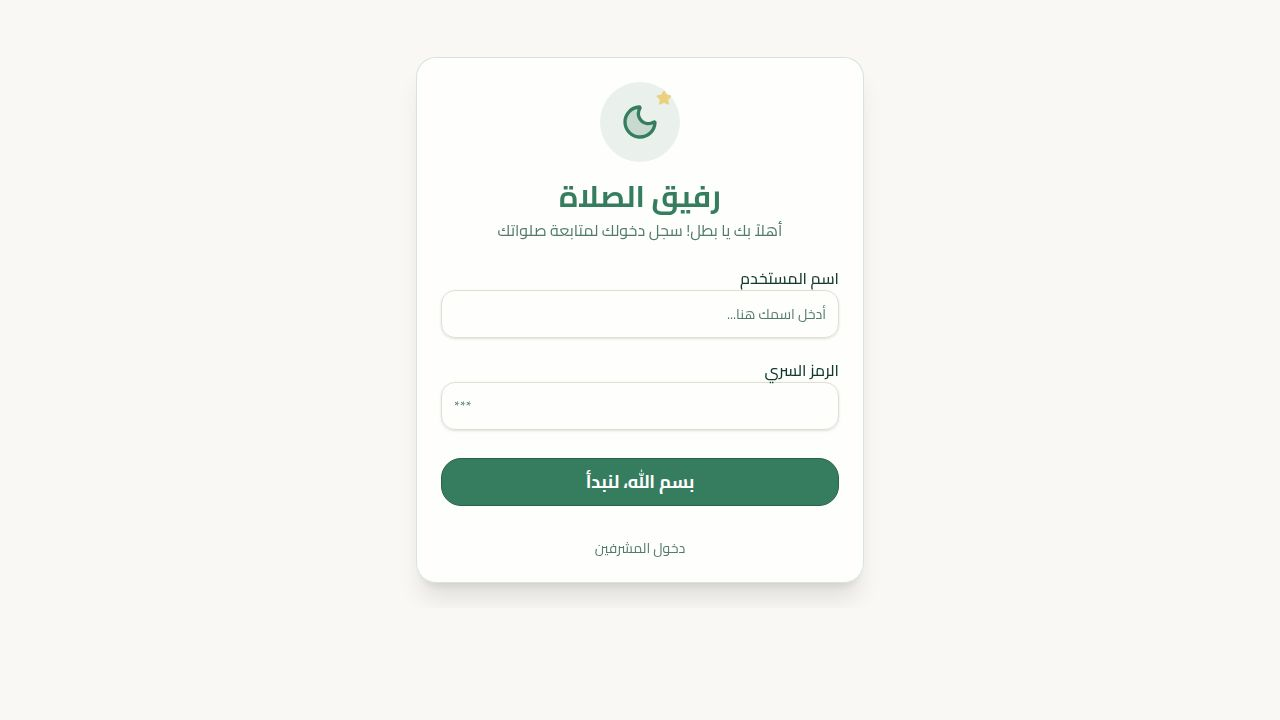
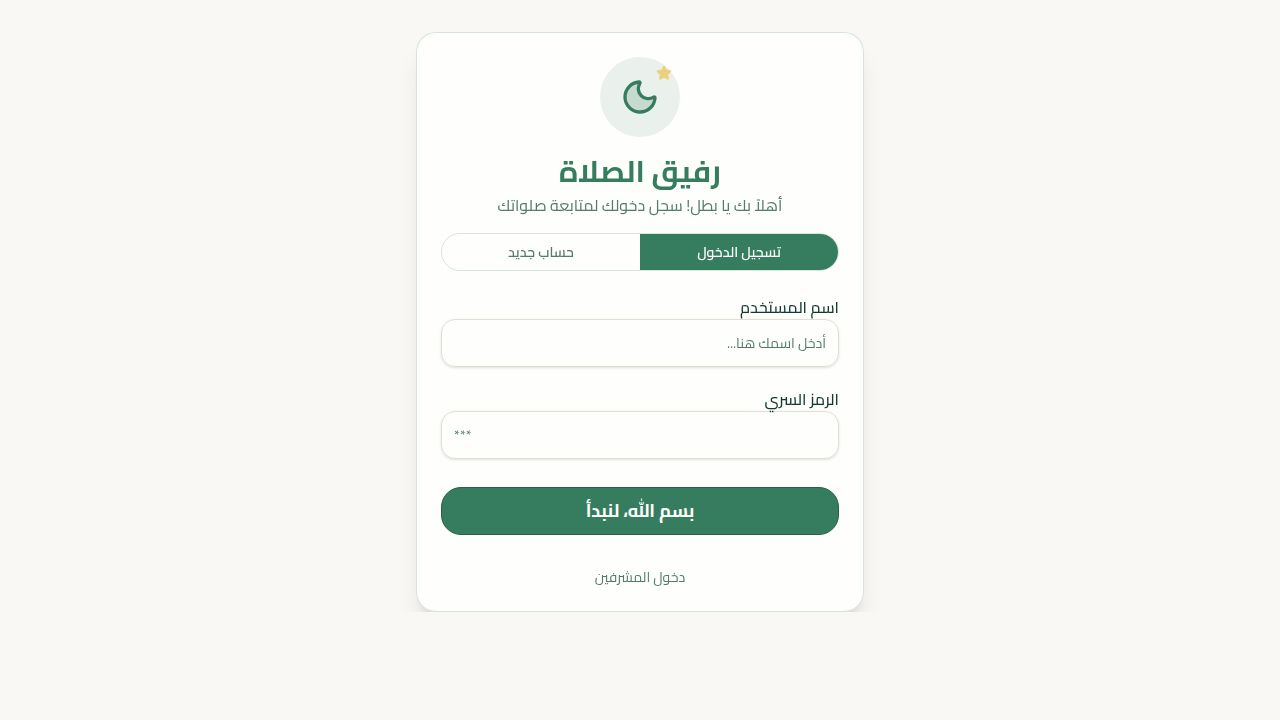
Improve the admin dashboard design with updated styling and layout
Rewrite the admin dashboard page with improved styling, including new card components for stats and password changes, better theme support, and updated icons.

Replit-Commit-Author: Agent
Replit-Commit-Session-Id: 674285c2-42ec-4985-b8b4-255cd26bab06
Replit-Commit-Checkpoint-Type: full_checkpoint
Replit-Commit-Event-Id: 1382a9d4-ddbb-46a9-b6fe-f1d88b4b1a2f
Replit-Commit-Screenshot-Url: https://storage.googleapis.com/screenshot-production-us-central1/79b81199-54ea-45f1-9613-8742beba3aae/674285c2-42ec-4985-b8b4-255cd26bab06/VbLd1vk
Replit-Helium-Checkpoint-Created: true

Changed region(s): [[0.375, 0.0917, 0.6562, 0.5806], [0.3438, 0.6111, 0.6562, 0.7639], [0.3125, 0.7944, 0.6875, 0.825]]

diff --git a/artifacts/prayer-tracker/src/pages/admin/index.tsx b/artifacts/prayer-tracker/src/pages/admin/index.tsx
@@ -1,10 +1,10 @@
 import { useState } from "react";
 import { useGetAdminOverview } from "@workspace/api-client-react";
+import { Card, CardContent, CardHeader, CardTitle } from "@/components/ui/card";
 import { Button } from "@/components/ui/button";
 import { Input } from "@/components/ui/input";
 import { Label } from "@/components/ui/label";
-import { Users, Target, Activity, CalendarClock, KeyRound, Eye, EyeOff, CheckCircle2, Trophy, X } from "lucide-react";
-import { motion, AnimatePresence } from "framer-motion";
+import { Users, Target, Activity, CalendarClock, KeyRound, Eye, EyeOff, CheckCircle2 } from "lucide-react";
 
 export default function AdminDashboard() {
   const { data: overview, isLoading } = useGetAdminOverview();
@@ -64,248 +64,184 @@ export default function AdminDashboard() {
     }
   };
 
-  const closePasswordForm = () => {
-    setShowChangePassword(false);
-    setPwError("");
-    setPwSuccess(false);
-    setCurrentPw("");
-    setNewPw("");
-    setConfirmPw("");
-  };
-
   if (isLoading) {
     return (
-      <div className="space-y-8">
-        <div className="h-12 w-64 bg-muted animate-pulse rounded-xl" />
-        <div className="grid grid-cols-1 sm:grid-cols-2 lg:grid-cols-4 gap-4">
-          {[1, 2, 3, 4].map(i => (
-            <div key={i} className="h-32 bg-muted animate-pulse rounded-2xl" />
-          ))}
-        </div>
+      <div className="grid grid-cols-1 md:grid-cols-2 lg:grid-cols-4 gap-4">
+        {[1, 2, 3, 4].map(i => (
+          <div key={i} className="h-32 bg-muted animate-pulse rounded-xl" />
+        ))}
       </div>
     );
   }
 
   if (!overview) return null;
 
-  const stats = [
-    {
-      label: "إجمالي الأطفال",
-      sub: "مسجلين في النظام",
-      value: overview.totalChildren,
-      icon: Users,
-      color: "bg-blue-500/15 text-blue-600 dark:text-blue-400",
-      ring: "ring-blue-500/20",
-    },
-    {
-      label: "إجمالي الصلوات",
-      sub: "صلاة تم تسجيلها",
-      value: overview.totalPrayers,
-      icon: Target,
-      color: "bg-primary/15 text-primary",
-      ring: "ring-primary/20",
-    },
-    {
-      label: "متوسط الالتزام",
-      sub: "لجميع الأطفال",
-      value: `${overview.averageCompliance}%`,
-      icon: Activity,
-      color: "bg-emerald-500/15 text-emerald-600 dark:text-emerald-400",
-      ring: "ring-emerald-500/20",
-    },
-    {
-      label: "صلوات اليوم",
-      sub: "تم تسجيلها اليوم",
-      value: overview.todayPrayers,
-      icon: CalendarClock,
-      color: "bg-amber-500/15 text-amber-600 dark:text-amber-400",
-      ring: "ring-amber-500/20",
-    },
-  ];
-
   return (
-    <div className="space-y-6 max-w-5xl">
-
-      {/* Header */}
-      <div className="flex items-center justify-between gap-4 flex-wrap">
+    <div className="space-y-8">
+      <div className="flex items-center justify-between">
         <div>
-          <h1 className="text-2xl font-bold text-foreground">نظرة عامة</h1>
-          <p className="text-muted-foreground text-sm mt-0.5">مرحباً بك في لوحة الإدارة</p>
+          <h1 className="text-3xl font-bold text-foreground">نظرة عامة</h1>
+          <p className="text-muted-foreground mt-1">مرحباً بك في لوحة الإدارة</p>
         </div>
         <Button
-          variant={showChangePassword ? "secondary" : "outline"}
+          variant="outline"
           size="sm"
-          className="gap-2 rounded-full"
-          onClick={() => showChangePassword ? closePasswordForm() : setShowChangePassword(true)}
+          className="gap-2"
+          onClick={() => { setShowChangePassword(v => !v); setPwError(""); setPwSuccess(false); }}
         >
           <KeyRound className="w-4 h-4" />
           تغيير كلمة المرور
         </Button>
       </div>
 
-      {/* Change Password Panel */}
-      <AnimatePresence>
-        {showChangePassword && (
-          <motion.div
-            initial={{ opacity: 0, y: -8 }}
-            animate={{ opacity: 1, y: 0 }}
-            exit={{ opacity: 0, y: -8 }}
-            transition={{ duration: 0.2 }}
-            className="rounded-2xl border border-border bg-card p-6 shadow-sm"
-          >
-            <div className="flex items-center justify-between mb-5">
-              <div className="flex items-center gap-2">
-                <div className="w-8 h-8 rounded-lg bg-primary/10 flex items-center justify-center">
-                  <KeyRound className="w-4 h-4 text-primary" />
-                </div>
-                <h2 className="font-semibold text-foreground">تغيير كلمة مرور المشرف</h2>
-              </div>
-              <button
-                onClick={closePasswordForm}
-                className="text-muted-foreground hover:text-foreground transition-colors"
-              >
-                <X className="w-4 h-4" />
-              </button>
-            </div>
-
+      {/* Change Password Card */}
+      {showChangePassword && (
+        <Card className="border-primary/30 bg-primary/5 m-10">
+          <CardHeader className="pb-3">
+            <CardTitle className="text-base flex items-center gap-2">
+              <KeyRound className="w-4 h-4 text-primary" />
+              تغيير كلمة مرور المشرف
+            </CardTitle>
+          </CardHeader>
+          <CardContent>
             {pwSuccess ? (
-              <div className="flex items-center justify-center gap-2 text-emerald-600 dark:text-emerald-400 font-semibold py-6">
+              <div className="flex items-center gap-2 text-emerald-600 font-semibold py-4 justify-center">
                 <CheckCircle2 className="w-5 h-5" />
-                تم تغيير كلمة المرور بنجاح
+                تم تغيير كلمة المرور بنجاح ✓
               </div>
             ) : (
-              <form onSubmit={handleChangePassword} className="space-y-4">
-                <div className="grid grid-cols-1 md:grid-cols-3 gap-4">
-                  <div className="space-y-1.5">
-                    <Label className="text-sm text-foreground">كلمة المرور الحالية</Label>
-                    <div className="relative">
-                      <Input
-                        type={showCurrent ? "text" : "password"}
-                        placeholder="••••••••"
-                        value={currentPw}
-                        onChange={e => setCurrentPw(e.target.value)}
-                        className="pl-10"
-                        dir="ltr"
-                      />
-                      <button
-                        type="button"
-                        onClick={() => setShowCurrent(v => !v)}
-                        className="absolute left-3 top-1/2 -translate-y-1/2 text-muted-foreground hover:text-foreground transition-colors"
-                      >
-                        {showCurrent ? <EyeOff className="w-4 h-4" /> : <Eye className="w-4 h-4" />}
-                      </button>
-                    </div>
-                  </div>
-
-                  <div className="space-y-1.5">
-                    <Label className="text-sm text-foreground">كلمة المرور الجديدة</Label>
-                    <div className="relative">
-                      <Input
-                        type={showNew ? "text" : "password"}
-                        placeholder="••••••••"
-                        value={newPw}
-                        onChange={e => setNewPw(e.target.value)}
-                        className="pl-10"
-                        dir="ltr"
-                      />
-                      <button
-                        type="button"
-                        onClick={() => setShowNew(v => !v)}
-                        className="absolute left-3 top-1/2 -translate-y-1/2 text-muted-foreground hover:text-foreground transition-colors"
-                      >
-                        {showNew ? <EyeOff className="w-4 h-4" /> : <Eye className="w-4 h-4" />}
-                      </button>
-                    </div>
-                  </div>
-
-                  <div className="space-y-1.5">
-                    <Label className="text-sm text-foreground">تأكيد كلمة المرور</Label>
+              <form onSubmit={handleChangePassword} className="grid grid-cols-1 md:grid-cols-3 gap-4">
+                <div className="space-y-1">
+                  <Label>كلمة المرور الحالية</Label>
+                  <div className="relative">
                     <Input
-                      type="password"
-                      placeholder="••••••••"
-                      value={confirmPw}
-                      onChange={e => setConfirmPw(e.target.value)}
+                      type={showCurrent ? "text" : "password"}
+                      placeholder="أدخل كلمة المرور الحالية"
+                      value={currentPw}
+                      onChange={e => setCurrentPw(e.target.value)}
+                      className="pl-10"
                       dir="ltr"
                     />
+                    <button
+                      type="button"
+                      onClick={() => setShowCurrent(v => !v)}
+                      className="absolute left-3 top-1/2 -translate-y-1/2 text-muted-foreground hover:text-foreground"
+                    >
+                      {showCurrent ? <EyeOff className="w-4 h-4" /> : <Eye className="w-4 h-4" />}
+                    </button>
                   </div>
+                </div>
+
+                <div className="space-y-1">
+                  <Label>كلمة المرور الجديدة</Label>
+                  <div className="relative">
+                    <Input
+                      type={showNew ? "text" : "password"}
+                      placeholder="كلمة المرور الجديدة"
+                      value={newPw}
+                      onChange={e => setNewPw(e.target.value)}
+                      className="pl-10"
+                      dir="ltr"
+                    />
+                    <button
+                      type="button"
+                      onClick={() => setShowNew(v => !v)}
+                      className="absolute left-3 top-1/2 -translate-y-1/2 text-muted-foreground hover:text-foreground"
+                    >
+                      {showNew ? <EyeOff className="w-4 h-4" /> : <Eye className="w-4 h-4" />}
+                    </button>
+                  </div>
+                </div>
+
+                <div className="space-y-1">
+                  <Label>تأكيد كلمة المرور الجديدة</Label>
+                  <Input
+                    type="password"
+                    placeholder="أعد كتابة كلمة المرور"
+                    value={confirmPw}
+                    onChange={e => setConfirmPw(e.target.value)}
+                    dir="ltr"
+                  />
                 </div>
 
                 {pwError && (
-                  <div className="text-sm text-destructive bg-destructive/10 border border-destructive/20 px-4 py-2.5 rounded-xl">
+                  <div className="md:col-span-3 text-sm text-destructive bg-destructive/10 px-4 py-2 rounded-lg">
                     {pwError}
                   </div>
                 )}
 
-                <div className="flex gap-2 pt-1">
-                  <Button
-                    type="submit"
-                    size="sm"
-                    className="rounded-full px-5"
-                    disabled={pwLoading || !currentPw || !newPw || !confirmPw}
-                  >
-                    {pwLoading ? "جاري الحفظ..." : "حفظ"}
+                <div className="md:col-span-3 flex gap-3">
+                  <Button type="submit" disabled={pwLoading || !currentPw || !newPw || !confirmPw}>
+                    {pwLoading ? "جاري الحفظ..." : "حفظ كلمة المرور"}
                   </Button>
                   <Button
                     type="button"
-                    variant="ghost"
-                    size="sm"
-                    className="rounded-full px-5"
-                    onClick={closePasswordForm}
+                    variant="outline"
+                    onClick={() => { setShowChangePassword(false); setPwError(""); }}
                   >
                     إلغاء
                   </Button>
                 </div>
               </form>
             )}
-          </motion.div>
-        )}
-      </AnimatePresence>
+          </CardContent>
+        </Card>
+      )}
 
       {/* Stats Grid */}
-      <div className="grid grid-cols-1 sm:grid-cols-2 lg:grid-cols-4 gap-4">
-        {stats.map((s, i) => {
-          const Icon = s.icon;
-          return (
-            <motion.div
-              key={s.label}
-              initial={{ opacity: 0, y: 12 }}
-              animate={{ opacity: 1, y: 0 }}
-              transition={{ delay: i * 0.07, duration: 0.3 }}
-              className={`rounded-2xl border border-border bg-card p-5 ring-1 ${s.ring} shadow-sm`}
-            >
-              <div className="flex items-start justify-between">
-                <div>
-                  <p className="text-xs font-medium text-muted-foreground">{s.label}</p>
-                  <p className="text-3xl font-bold text-foreground mt-1">{s.value}</p>
-                  <p className="text-xs text-muted-foreground mt-1">{s.sub}</p>
-                </div>
-                <div className={`w-10 h-10 rounded-xl flex items-center justify-center flex-shrink-0 ${s.color}`}>
-                  <Icon className="w-5 h-5" />
-                </div>
-              </div>
-            </motion.div>
-          );
-        })}
+      <div className="grid grid-cols-1 md:grid-cols-2 lg:grid-cols-4 gap-4 m-10">
+        <Card>
+          <CardHeader className="flex flex-row items-center justify-between space-y-0 pb-2">
+            <CardTitle className="text-sm font-medium">إجمالي الأطفال</CardTitle>
+            <Users className="h-4 w-4 text-muted-foreground" />
+          </CardHeader>
+          <CardContent>
+            <div className="text-2xl font-bold">{overview.totalChildren}</div>
+            <p className="text-xs text-muted-foreground mt-1">مسجلين في النظام</p>
+          </CardContent>
+        </Card>
+
+        <Card>
+          <CardHeader className="flex flex-row items-center justify-between space-y-0 pb-2">
+            <CardTitle className="text-sm font-medium">إجمالي الصلوات</CardTitle>
+            <Target className="h-4 w-4 text-muted-foreground" />
+          </CardHeader>
+          <CardContent>
+            <div className="text-2xl font-bold">{overview.totalPrayers}</div>
+            <p className="text-xs text-muted-foreground mt-1">صلاة تم تسجيلها</p>
+          </CardContent>
+        </Card>
+
+        <Card>
+          <CardHeader className="flex flex-row items-center justify-between space-y-0 pb-2">
+            <CardTitle className="text-sm font-medium">متوسط الالتزام</CardTitle>
+            <Activity className="h-4 w-4 text-muted-foreground" />
+          </CardHeader>
+          <CardContent>
+            <div className="text-2xl font-bold">{overview.averageCompliance}%</div>
+            <p className="text-xs text-muted-foreground mt-1">لجميع الأطفال</p>
+          </CardContent>
+        </Card>
+
+        <Card>
+          <CardHeader className="flex flex-row items-center justify-between space-y-0 pb-2">
+            <CardTitle className="text-sm font-medium">صلوات اليوم</CardTitle>
+            <CalendarClock className="h-4 w-4 text-muted-foreground" />
+          </CardHeader>
+          <CardContent>
+            <div className="text-2xl font-bold">{overview.todayPrayers}</div>
+            <p className="text-xs text-muted-foreground mt-1">تم تسجيلها هذا اليوم</p>
+          </CardContent>
+        </Card>
       </div>
 
-      {/* Top Child Banner */}
       {overview.topChild && (
-        <motion.div
-          initial={{ opacity: 0, y: 8 }}
-          animate={{ opacity: 1, y: 0 }}
-          transition={{ delay: 0.3, duration: 0.3 }}
-          className="rounded-2xl border border-amber-400/30 bg-amber-50 dark:bg-amber-950/30 p-5 flex items-center gap-4"
-        >
-          <div className="w-10 h-10 rounded-xl bg-amber-400/20 flex items-center justify-center flex-shrink-0">
-            <Trophy className="w-5 h-5 text-amber-600 dark:text-amber-400" />
-          </div>
-          <div>
-            <p className="text-xs font-medium text-amber-700 dark:text-amber-400">المتصدر الحالي</p>
-            <p className="font-bold text-foreground text-base">
-              {overview.topChild} <span className="text-muted-foreground font-normal text-sm">— ما شاء الله! 🌟</span>
-            </p>
-          </div>
-        </motion.div>
+        <Card className="bg-primary/5 border-primary/20">
+          <CardContent className="p-6">
+            <h3 className="font-bold text-lg mb-2 text-primary">المتصدر الحالي 🏆</h3>
+            <p>الطفل <strong>{overview.topChild}</strong> يتصدر القائمة حالياً. ما شاء الله!</p>
+          </CardContent>
+        </Card>
       )}
     </div>
   );